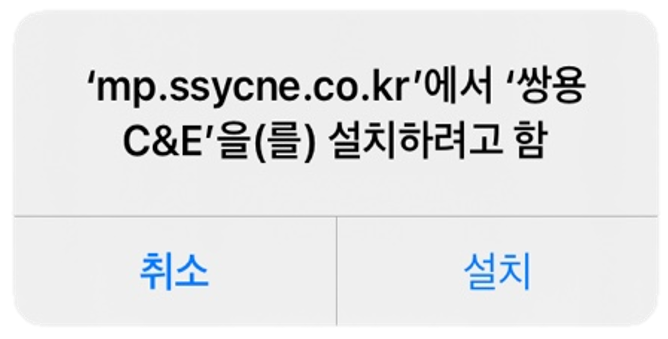
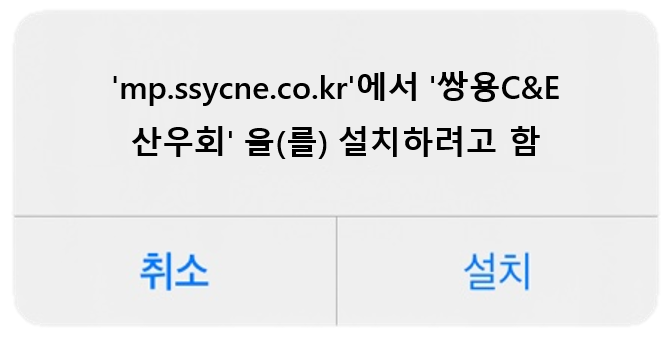
(20260630)_조현아_설치파일 다운로드 페이지 수정_v1.0

Changed region(s): [[0.1198, 0.177, 0.8982, 0.3245], [0.1796, 0.354, 0.8383, 0.5015]]

diff --git a/src/main/webapp/down/android/html/android-download.html b/src/main/webapp/down/android/html/android-download.html
@@ -15,7 +15,7 @@
         <div class="install">
             <div class="top-header">
                 <h1 class="logo">Ssangyong C&amp;E</h1>
-                <p class="download">쌍용씨앤이의 모바일플랫폼을 다운로드합니다.</p>
+                <p class="download">쌍용씨앤이의 산우회 모바일플랫폼을 다운로드합니다.</p>
                 <p class="download-install">Android 설치방법</p>
             </div>
             <div class="content">
@@ -30,7 +30,7 @@
                             <li class="img"><img src="../img/img_install_02.png" alt=""></li>
                             <li class="txt">무시하고 설치 버튼을 터치합니다.</li>
                             <li class="img"><img src="../img/img_install_03.png" alt=""></li>
-                            <li class="txt">설치가 완료되어 열기 버튼을 터치하면 쌍용 C&E APP으로 이동합니다.</li>
+                            <li class="txt">설치가 완료되어 열기 버튼을 터치하면 쌍용 C&E 산우회 APP으로 이동합니다.</li>
                             <li class="img"><img src="../img/img_install_04.png" alt=""></li>
                         </ul>
                     </div>

diff --git a/src/main/webapp/down/android/html/dev-android-download.html b/src/main/webapp/down/android/html/dev-android-download.html
@@ -15,7 +15,7 @@
         <div class="install">
             <div class="top-header">
                 <h1 class="logo">Ssangyong C&amp;E</h1>
-                <p class="download">쌍용씨앤이의 모바일플랫폼을 다운로드합니다.</p>
+                <p class="download">쌍용씨앤이의 산우회 모바일플랫폼을 다운로드합니다.</p>
                 <p class="download-install">Android 설치방법</p>
             </div>
             <div class="content">
@@ -30,7 +30,7 @@
                             <li class="img"><img src="../img/img_install_02.png" alt=""></li>
                             <li class="txt">무시하고 설치 버튼을 터치합니다.</li>
                             <li class="img"><img src="../img/img_install_03.png" alt=""></li>
-                            <li class="txt">설치가 완료되어 열기 버튼을 터치하면 쌍용 C&E APP으로 이동합니다.</li>
+                            <li class="txt">설치가 완료되어 열기 버튼을 터치하면 쌍용 C&E 산우회 APP으로 이동합니다.</li>
                             <li class="img"><img src="../img/img_install_04.png" alt=""></li>
                         </ul>
                     </div>

diff --git a/src/main/webapp/down/ios/html/dev-ios-download.html b/src/main/webapp/down/ios/html/dev-ios-download.html
@@ -18,7 +18,7 @@
         <div class="install">
             <div class="top-header">
                 <h1 class="logo">Ssangyong C&amp;E</h1>
-                <p class="download">쌍용씨앤이의 모바일플랫폼을 다운로드합니다.</p>
+                <p class="download">쌍용씨앤이의 산우회 모바일플랫폼을 다운로드합니다.</p>
                 <p class="download-install">IOS 설치방법</p>
             </div>
             <div class="content">

diff --git a/src/main/webapp/down/ios/html/ios-download.html b/src/main/webapp/down/ios/html/ios-download.html
@@ -18,7 +18,7 @@
         <div class="install">
             <div class="top-header">
                 <h1 class="logo">Ssangyong C&amp;E</h1>
-                <p class="download">쌍용씨앤이의 모바일플랫폼을 다운로드합니다.</p>
+                <p class="download">쌍용씨앤이의 산우회 모바일플랫폼을 다운로드합니다.</p>
                 <p class="download-install">IOS 설치방법</p>
             </div>
             <div class="content">
